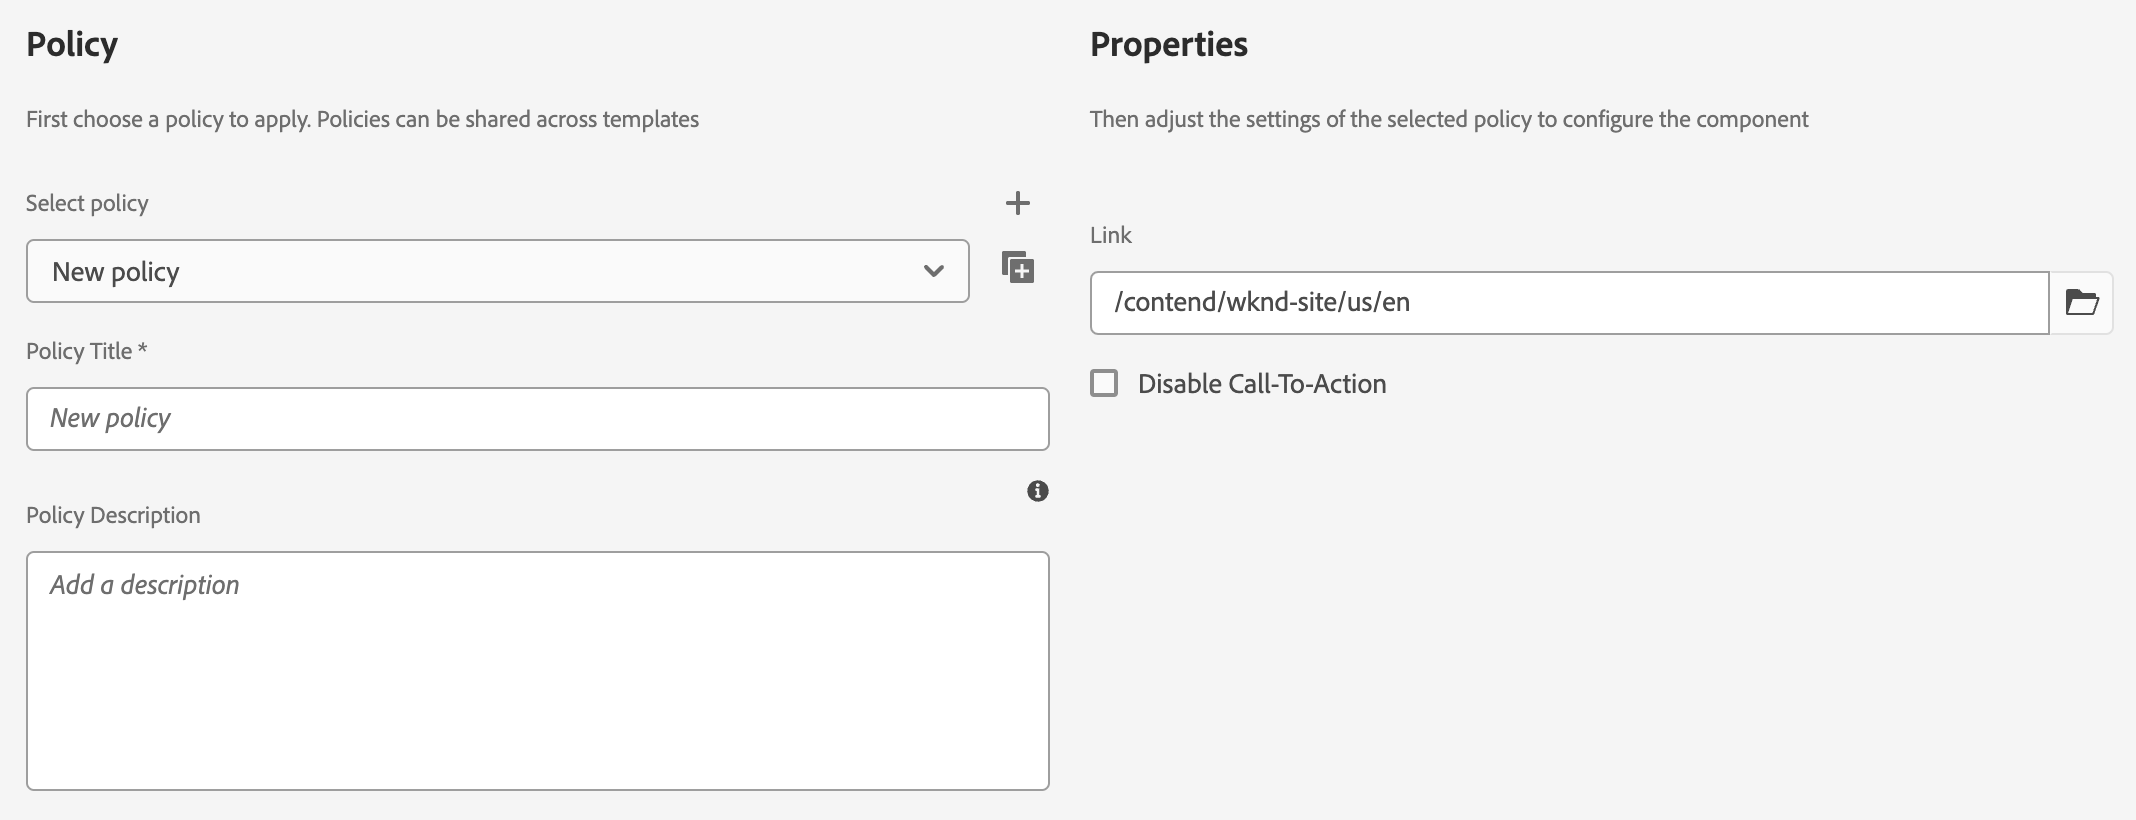
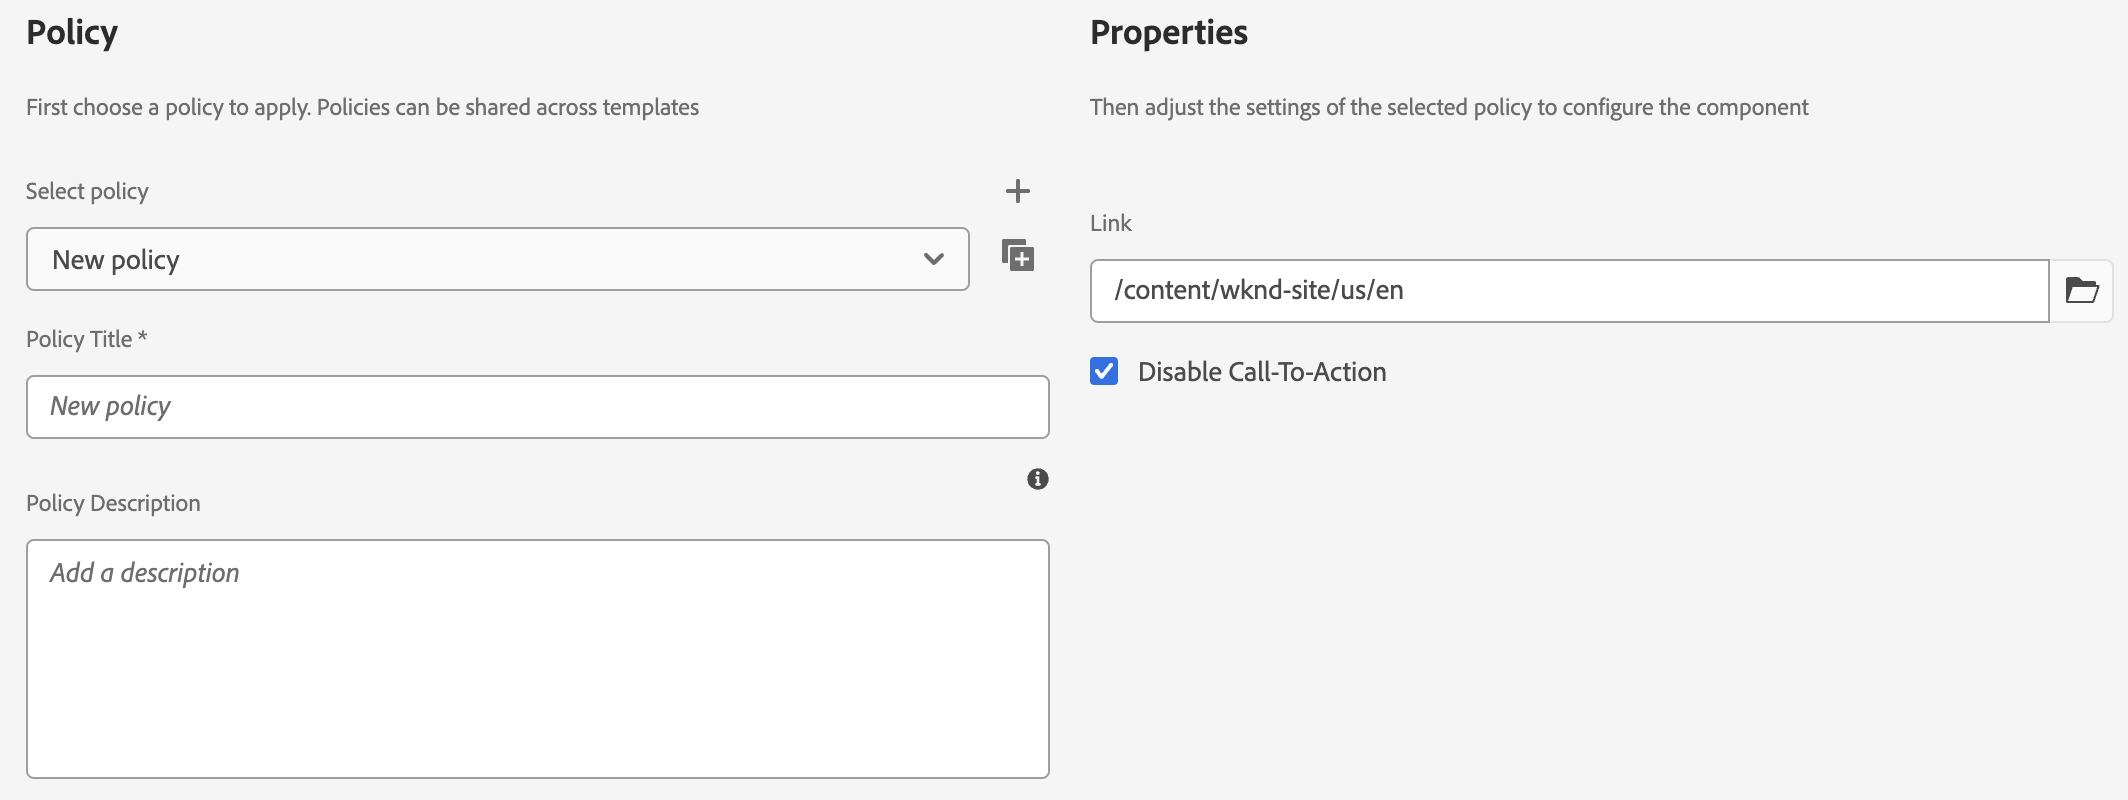
fix indention and update example image for policy

diff --git a/src/app/aem/sites/design-dialog-to-show-hide-dialog-fields-based-on-template/page.tsx b/src/app/aem/sites/design-dialog-to-show-hide-dialog-fields-based-on-template/page.tsx
@@ -83,17 +83,21 @@ const COMPONENT_DIALOG = `<?xml version="1.0" encoding="UTF-8"?>
                   <column jcr:primaryType="nt:unstructured"
                     sling:resourceType="granite/ui/components/coral/foundation/container">
                     <items jcr:primaryType="nt:unstructured">
+                      <link jcr:primaryType="nt:unstructured"
+                        sling:resourceType="cq/gui/components/coral/common/form/pagefield"
+                        name="./link"
+                        fieldLabel="Link"
+                        value="\${cqDesign.link}"
+                        rootPath="/content/wknd-site"/>
                       <action jcr:primaryType="nt:unstructured"
                         granite:hide="\${cqDesign.actionDisabled}"
                         sling:resourceType="granite/ui/components/coral/foundation/container"
                         name="./action">
                         <items jcr:primaryType="nt:unstructured">
-                          <link jcr:primaryType="nt:unstructured"
-                            sling:resourceType="cq/gui/components/coral/common/form/pagefield"
-                            name="./link"
-                            fieldLabel="Link"
-                            value="\${cqDesign.link}"
-                            rootPath="/content/wknd-site"/>                                     
+                          <text jcr:primaryType="nt:unstructured"
+                            sling:resourceType="granite/ui/components/coral/foundation/form/textfield"
+                            fieldLabel="Text"
+                            name="./text"/>                               
                         </items>
                       </action>
                     </items>
@@ -136,76 +140,63 @@ const breadcrumbs : IBreadCrumb = {
 
 export default function DesignDialog() {
   return (
-      <div>
-        <BreadCrumb {...breadcrumbs}/>
-        <article itemScope itemType="https://schema.org/Article">
-          <Article
-              title={ARTICLE.title}
-              publishDate={ARTICLE.publishDate}
-              modifiedDate={ARTICLE.modifiedDate}/>
-          <div>
-            <section className="pt-6">
-              Design Dialog allows developers and template authors to configure component behavior at the template
-              level. It
-              includes setting default values and controlling the visibility of fields in the component dialog. Acting
-              as a bridge
-              between Template Editor and Component Dialog, it provides a way to customize component behavior
-              dynamically.
-            </section>
-            <section className="pt-3">
-              To create a Design Dialog, you need to define <code
-                className="code-inline background">_cq_design_dialog</code> node in your component&apos;s structure.
-              <Highlight code={DESIGN_DIALOG} language="xml" path="helloworld / _cq_design_dialog / .content.xml"/>
-            </section>
-            <section className="pt-3">
-              To configure the Design Dialog properties, navigate to <strong>Tools</strong> &gt;
-              <strong>Templates</strong> &gt; <strong>Your_Project</strong> &gt; <strong>Template</strong> and
-              click on the <strong>Edit</strong> then select <strong>Policy</strong> from the <strong>Template
-              Editor</strong>.
-            </section>
-            <Image src={TEMPLATE_EDITOR} className="border mt-2"
-                   alt="Template Editor">
-            </Image>
-            <section className="pt-4">
-              In the Policy Editor, configure the values according to the requirements.
-            </section>
-            <Image src={COMPONENT_POLICY} className="border mt-2"
-                   alt="Component Policy">
-            </Image>
-            <section className="pt-2">
-              Once the Design Dialog is configured, you can use its values to control the visibility of fields and set
-              default values in component dialog.
-            </section>
-            <section className="pt-4">
-              In component dialog, you can fetch design dialog value using <code
-                className="code-inline background">cqDesign.property_name</code>. The
-              complete example is provided below:
-              <Highlight code={COMPONENT_DIALOG} language="xml" path="helloworld / _cq_dialog / .content.xml"/>
-            </section>
-            <section className="pt-4">
-              The dialog will now appear as shown below, retrieving the link value from the design dialog.
-            </section>
-            <Image src={_COMPONENT_DIALOG_} className="border mt-2" height="250"
-                   alt="Component Dialog">
-            </Image>
-            <section className="pt-3">
-              However, if the <strong>Disable Call-to-Action</strong> checkbox is selected,
-              the <strong>Link</strong> option will be hidden.
-            </section>
-            <section className="pt-6">
-              In case, you require Design Dialog values in a Sling Model, you can fetch them as shown below:
-            </section>
-            <Highlight code={SLING_MODEL} language="java" path="HelloWorld.java"/>
-            <section className="pt-6">
-              Hope, you now understand how to use the Design Dialog and how it helps customize the Component Dialog.
-              Happy learning!
-            </section>
-          </div>
-        </article>
-        <div className="mt-8 mb-4">
-          <ArticleReviewList items={[]}/>
-          <ArticleReviewForm/>
+    <div>
+      <BreadCrumb {...breadcrumbs}/>
+      <article itemScope itemType="https://schema.org/Article">
+        <Article
+          title={ARTICLE.title}
+            publishDate={ARTICLE.publishDate}
+            modifiedDate={ARTICLE.modifiedDate}/>
+        <div>
+          <section className="pt-6">
+            Design Dialog allows developers and template authors to configure component behavior at the template level. It
+            includes setting default values and controlling the visibility of fields in the component dialog. Acting as a bridge
+            between Template Editor and Component Dialog, it provides a way to customize component behavior dynamically.
+          </section>
+          <section className="pt-3">
+            To create a Design Dialog, you need to define <code className="code-inline background">_cq_design_dialog</code> node in your component&apos;s structure.
+            <Highlight code={DESIGN_DIALOG} language="xml" path="helloworld / _cq_design_dialog / .content.xml"/>
+          </section>
+          <section className="pt-3">
+            To configure the Design Dialog properties, navigate to <strong>Tools</strong> &gt; <strong>Templates</strong> &gt; <strong>Your_Project</strong> &gt; <strong>Template</strong> and
+            click on the <strong>Edit</strong> then select <strong>Policy</strong> from the <strong>Template Editor</strong>.
+          </section>
+          <Image src={TEMPLATE_EDITOR} className="border mt-2"
+             alt="Template Editor">
+          </Image>
+          <section className="pt-4">
+            In the Policy Editor, configure the values according to the requirements.
+          </section>
+          <Image src={COMPONENT_POLICY} className="border mt-2"
+             alt="Component Policy">
+          </Image>
+          <section className="pt-2">
+            Once the Design Dialog is configured, you can use its values to control the visibility of fields and set default values in component dialog.
+          </section>
+          <section className="pt-4">
+            In component dialog, you can fetch design dialog value using <code className="code-inline background">cqDesign.property_name</code>. The
+            complete example is provided below:
+            <Highlight code={COMPONENT_DIALOG} language="xml" path="helloworld / _cq_dialog / .content.xml"/>
+          </section>
+          <section className="pt-4">
+            The dialog will now appear as shown below, retrieving the link value from the design dialog and hiding the action fields.
+          </section>
+          <Image src={_COMPONENT_DIALOG_} className="border mt-2" height="250"
+             alt="Component Dialog">
+          </Image>
+          <section className="pt-6">
+            In case, you require Design Dialog values in a Sling Model, you can fetch them as shown below:
+          </section>
+          <Highlight code={SLING_MODEL} language="java" path="HelloWorld.java"/>
+          <section className="pt-6">
+            Hope, you now understand how to use the Design Dialog and how it helps customize the Component Dialog. Happy learning!
+          </section>
         </div>
+      </article>
+      <div className="mt-8 mb-4">
+        <ArticleReviewList items={[]}/>
+        <ArticleReviewForm/>
       </div>
+    </div>
   );
 }
